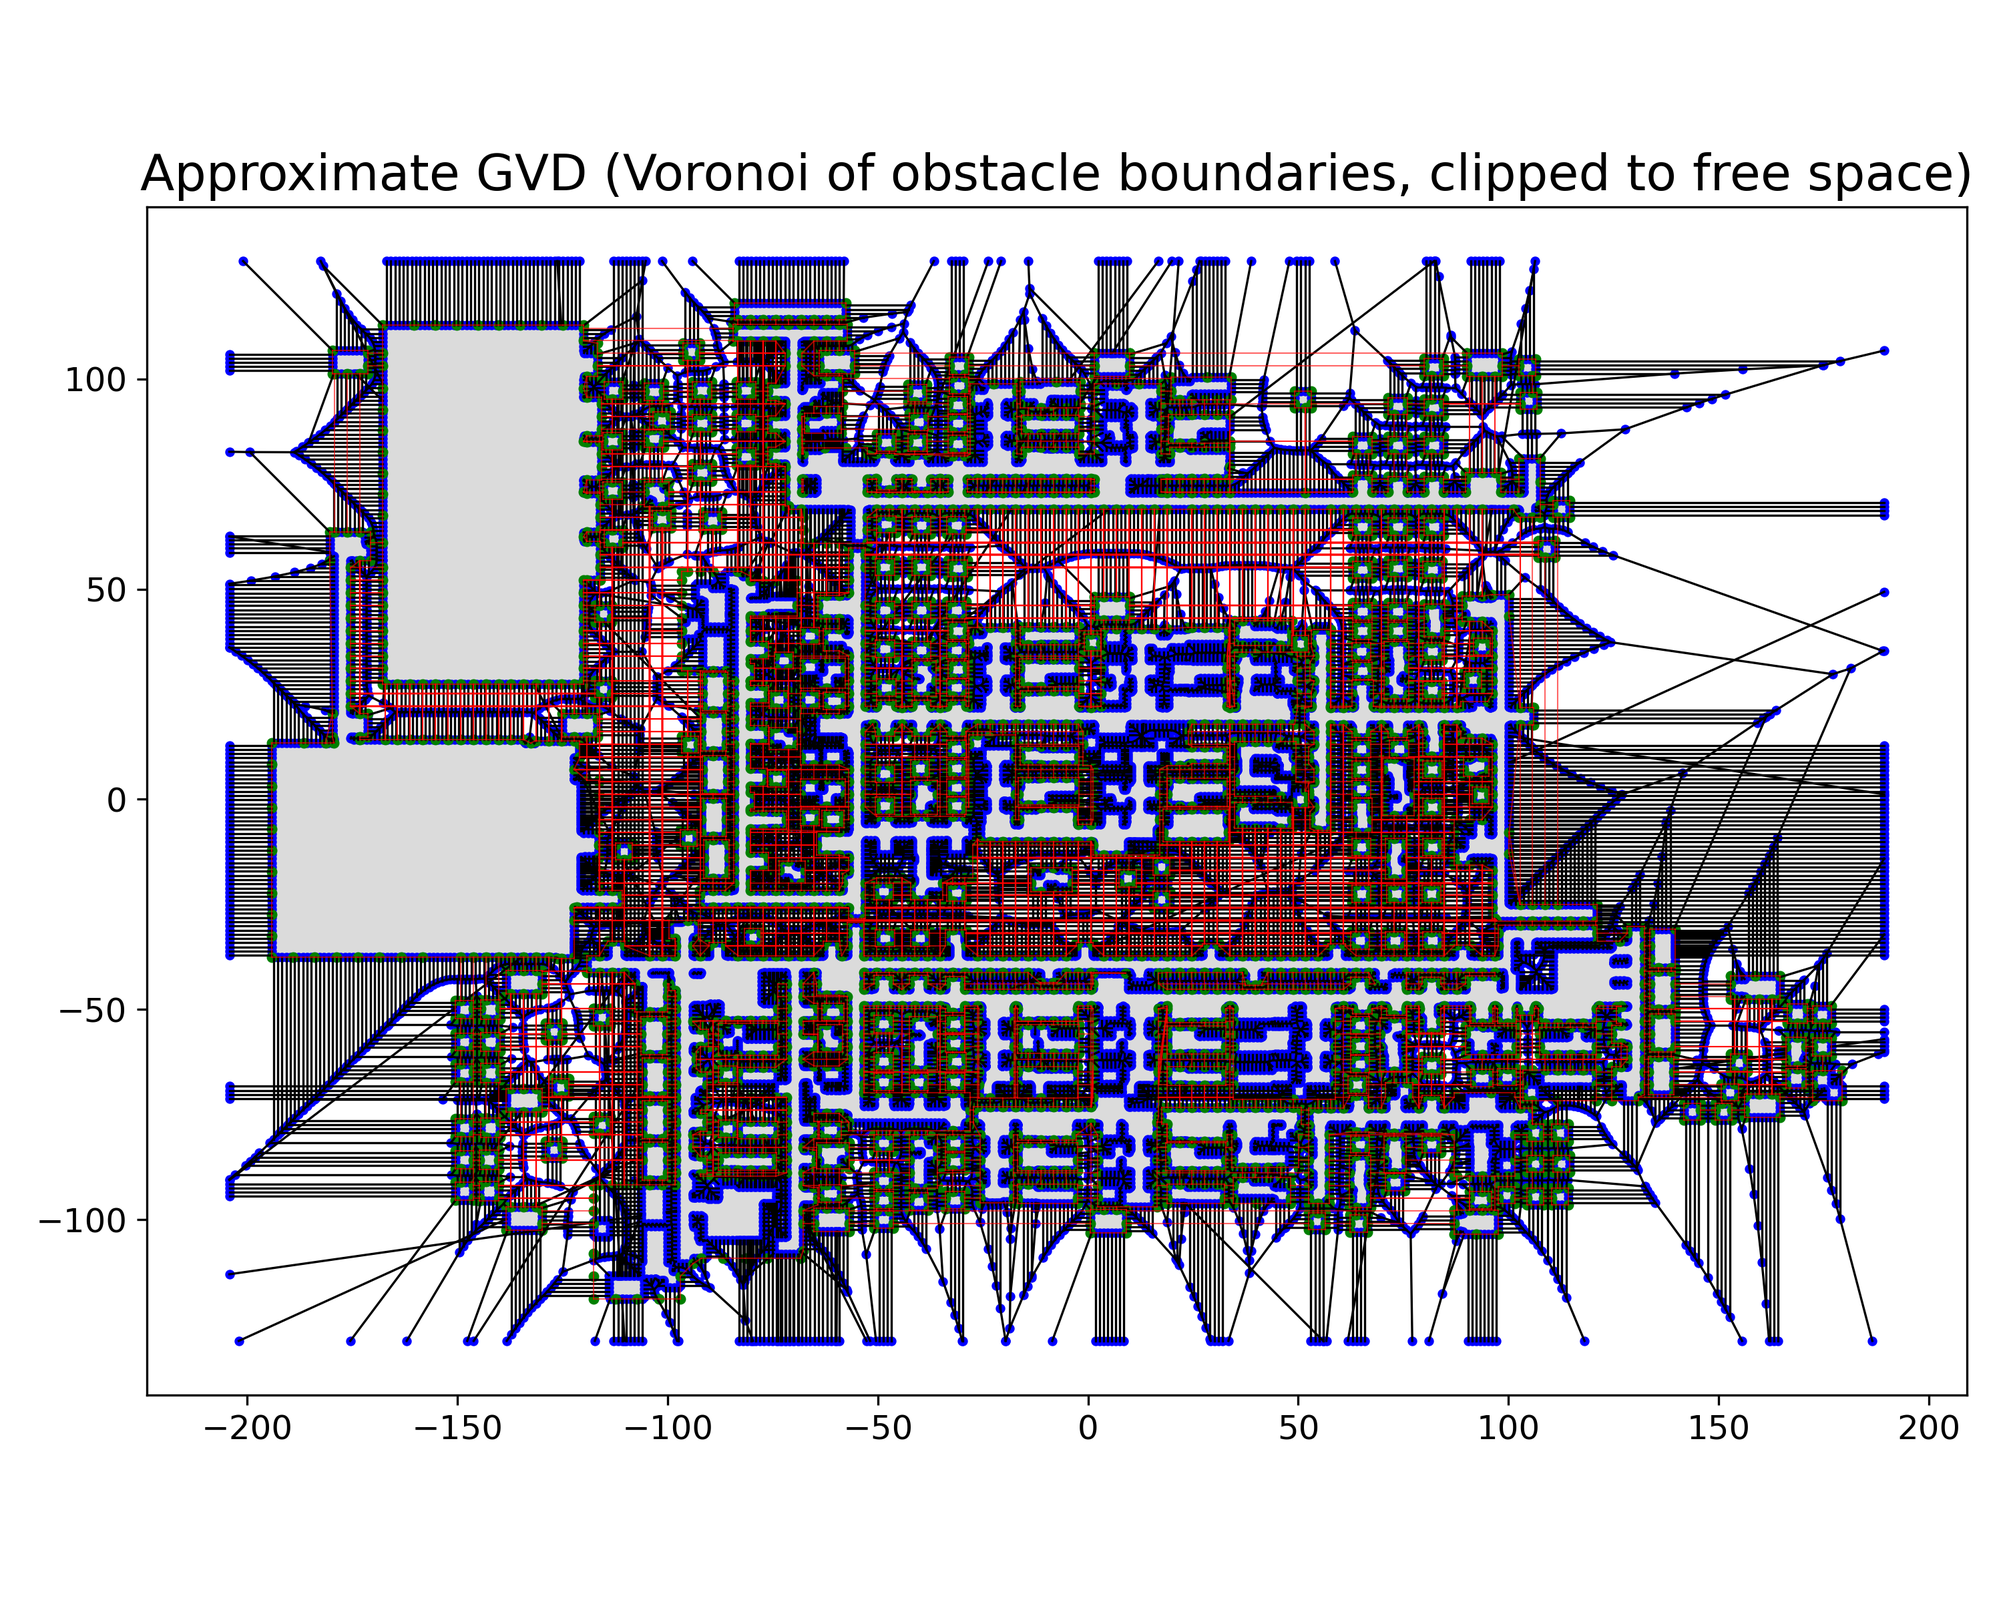
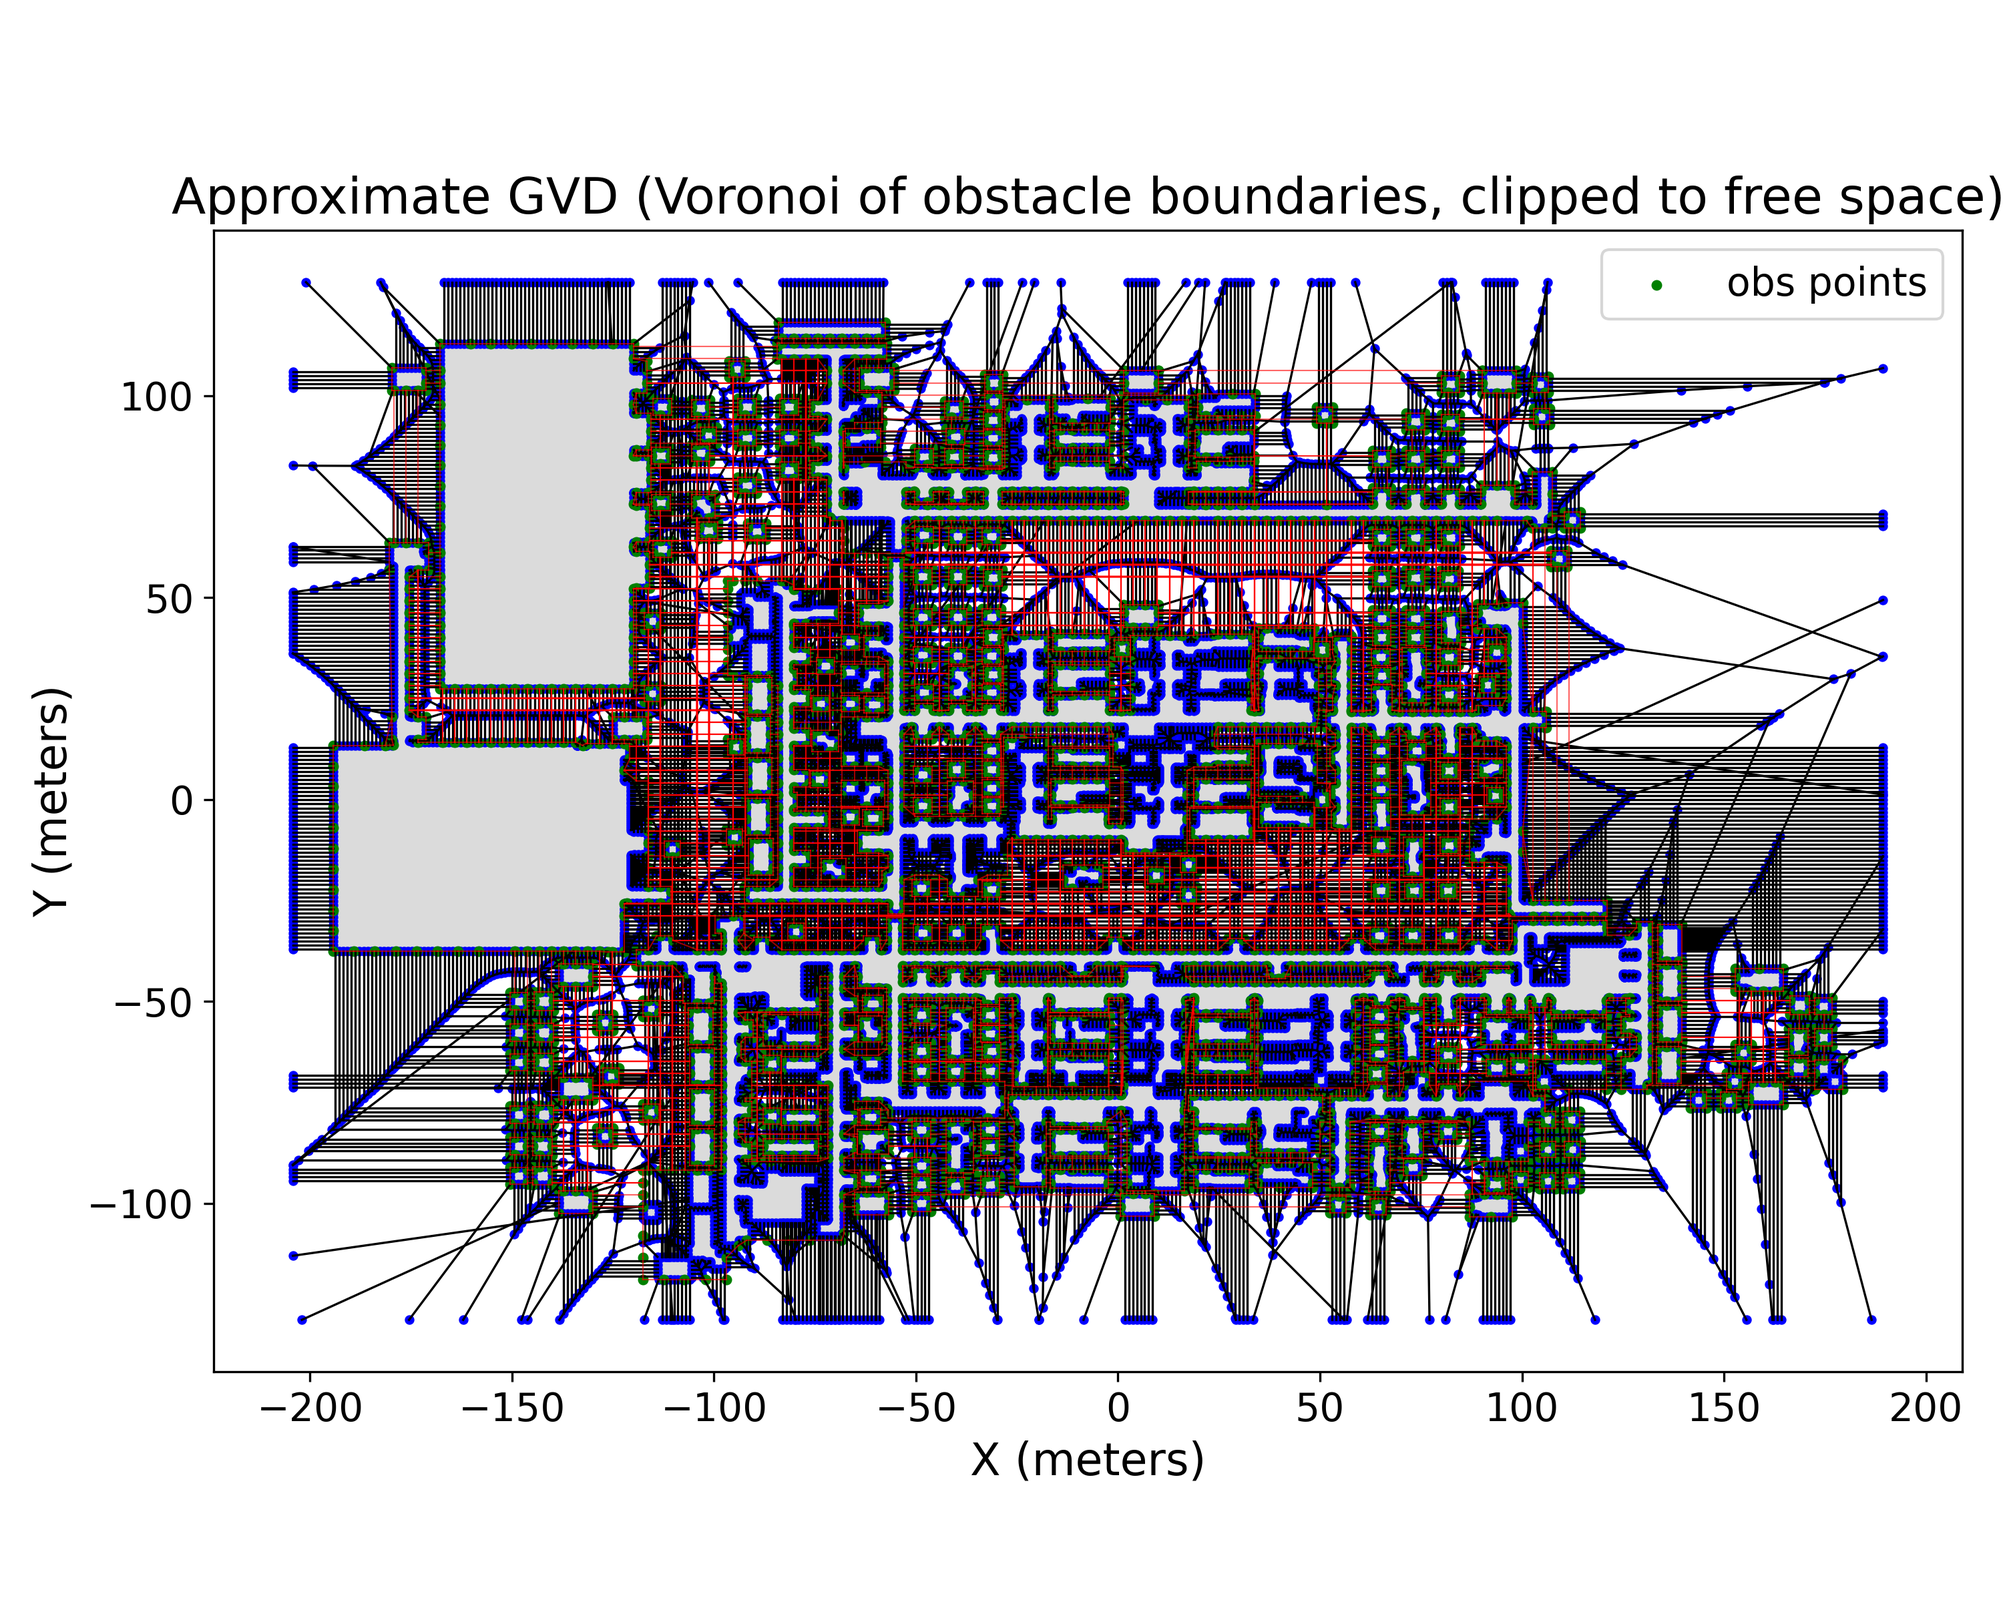
analise comparativa ajustada

diff --git a/Resultados_artigo/analise_comparativa.py b/Resultados_artigo/analise_comparativa.py
@@ -1,20 +1,18 @@
 """
-Script para análise comparativa entre o grafo AABB e o grafo GVD (Voronoi).
+Comparative analysis script between the AABB graph and the GVD (Voronoi) graph.
 
-Este script gera três grafos:
-1. Grafo AABB: O método principal, com margem de 3.5 e threshold de 20.
-2. Grafo GVD com Margem: GVD gerado sobre obstáculos com margem de 3.5.
-3. Grafo GVD sem Margem: GVD gerado sobre os obstáculos originais (margem 0).
+This script generates three graphs:
+1. AABB Graph: Main method, using margin=1.5 and threshold=50.
+2. GVD with Margin: GVD generated with obstacles expanded by margin=1.5.
+3. GVD without Margin: GVD generated from original obstacles (margin=0).
 
-Realiza as seguintes análises e gera os seguintes artefatos:
-- Tabela Comparativa de Métricas: Imprime no console uma tabela com estatísticas
-  dos grafos (vértices, arestas, comprimento, ilhas, segurança, acessibilidade).
-- Histograma de Distâncias de Segurança: Salva um PNG (`comparacao_distancias_seguranca.png`)
-  mostrando a distribuição da distância das arestas aos obstáculos para cada grafo.
-- Plot de Caminhos Mais Curtos: Salva um PNG (`comparacao_caminhos.png`) mostrando
-  o caminho mais curto entre dois pontos de exemplo nos três grafos.
+It performs the following analyses and produces the following artifacts:
+- Comparative Metrics Table: prints a table with graph statistics
+    (vertices, edges, total length, islands, density, tortuosity).
+- Shortest-path comparison plot: saves `comparacao_caminhos.png` showing
+    the shortest path between two example points on the three graphs.
 
-Uso: Executar a partir da raiz do repositório: `python Resultados_artigo/analise_comparativa.py`
+Usage: Run from repository root: `python Resultados_artigo/analise_comparativa.py`
 """
 
 import os
@@ -27,7 +25,7 @@ from shapely.ops import nearest_points, unary_union
 import pandas as pd
 import seaborn as sns
 
-# Garantir que a raiz do repositório esteja no path para importações
+    # Ensure repository root is in the import path
 REPO_ROOT = os.path.abspath(os.path.join(os.path.dirname(__file__), ".."))
 if REPO_ROOT not in sys.path:
     sys.path.insert(0, REPO_ROOT)
@@ -42,6 +40,18 @@ from Resultados_artigo.gvd_from_equipment import (
 )
 
 RESULTS_DIR = os.path.dirname(__file__)
+# Publication-quality defaults for this script's figures
+import matplotlib as mpl
+mpl.rcParams.update({
+    'figure.titlesize': 26,
+    'axes.titlesize': 24,
+    'axes.labelsize': 20,
+    'xtick.labelsize': 16,
+    'ytick.labelsize': 16,
+    'legend.fontsize': 16,
+    'legend.title_fontsize': 16,
+    'font.size': 16,
+})
 
 def find_closest_node(graph, point):
     """Encontra o nó no grafo mais próximo de uma dada coordenada (x, y)."""
@@ -114,90 +124,12 @@ def get_average_tortuosity(graph):
     return np.mean(tortuosities) if tortuosities else float('nan')
 
 def plot_radar_chart(df, output_dir):
-    """Gera um radar chart para comparar as métricas normalizadas dos grafos."""
-    print("   - Gerando Radar Chart para comparação de trade-offs...")
-    
-    # Métricas para o radar chart. Escolhemos as que melhor representam os trade-offs.
-    # Nota: Para 'Tortuosidade' e 'Fragmentação', valores menores são melhores. Inverteremos a escala.
-    metrics = ['Vértices', 'Comprimento Total (m)', 'Tortuosidade Média', 'Índice Fragmentação']
-    df_radar = df[['Grafo'] + metrics].copy()
-
-    # Normaliza os dados (escala de 0 a 1)
-    for metric in metrics:
-        min_val = df_radar[metric].min()
-        max_val = df_radar[metric].max()
-        if max_val - min_val > 0:
-            df_radar[metric] = (df_radar[metric] - min_val) / (max_val - min_val)
-        else:
-            df_radar[metric] = 0.5 # Valor neutro se todos forem iguais
-
-    # Inverte a escala para métricas onde "menos é mais"
-    for metric in ['Tortuosidade Média', 'Índice Fragmentação']:
-        df_radar[metric] = 1 - df_radar[metric]
-
-    labels = df_radar.columns[1:]
-    num_vars = len(labels)
-
-    # Ângulos para o radar chart
-    angles = np.linspace(0, 2 * np.pi, num_vars, endpoint=False).tolist()
-    angles += angles[:1]
-
-    fig, ax = plt.subplots(figsize=(8, 8), subplot_kw=dict(polar=True))
-
-    for i, row in df_radar.iterrows():
-        values = row.drop('Grafo').tolist()
-        values += values[:1]
-        ax.plot(angles, values, label=row['Grafo'], linewidth=2)
-        ax.fill(angles, values, alpha=0.25)
-
-    ax.set_yticklabels([])
-    ax.set_xticks(angles[:-1])
-    ax.set_xticklabels([l.replace(' ', '\n') for l in labels])
-    plt.title('Comparação de Trade-offs dos Métodos (Radar Chart)', size=16, y=1.1)
-    plt.legend(loc='upper right', bbox_to_anchor=(1.3, 1.1))
-    plt.savefig(os.path.join(output_dir, "comparacao_radar_chart.png"), dpi=300, bbox_inches='tight')
-    plt.close()
+    # Radar chart removed per user request — keep function as placeholder.
+    print("Radar chart generation disabled (plots removed).")
 
 def plot_metrics_comparison(df, output_dir):
-    """Gera gráficos de barras comparando as métricas dos diferentes grafos."""
-    print("   - Gerando plots de comparação de métricas...")
-    
-    # Garante que as colunas de métricas sejam numéricas para plotagem
-    for col in df.columns:
-        if col != 'Grafo':
-            df[col] = pd.to_numeric(df[col])
-
-    # Define as métricas para os plots
-    metrics_to_plot = {
-        'Complexidade': ['Vértices', 'Arestas'],
-        'Eficiência e Coesão': ['Comprimento Total (m)', 'Tortuosidade Média', 'Índice Fragmentação']
-    }
-
-    sns.set_theme(style="whitegrid")
-    palette = "viridis"
-
-    # Plot para Complexidade
-    df_melted_complexity = df.melt(id_vars='Grafo', value_vars=metrics_to_plot['Complexidade'], var_name='Métrica', value_name='Valor')
-    plt.figure(figsize=(10, 6))
-    ax1 = sns.barplot(x='Métrica', y='Valor', hue='Grafo', data=df_melted_complexity, palette=palette)
-    ax1.set_title('Comparação de Complexidade do Grafo', fontsize=16)
-    ax1.set_ylabel('Contagem')
-    ax1.set_yscale('log') # Usar escala logarítmica para lidar com grandes diferenças
-    plt.tight_layout()
-    plt.savefig(os.path.join(output_dir, "comparacao_metricas_complexidade.png"), dpi=300)
-    plt.close()
-
-    # Plot para Eficiência e Coesão
-    df_melted_efficiency = df.melt(id_vars='Grafo', value_vars=metrics_to_plot['Eficiência e Coesão'], var_name='Métrica', value_name='Valor')
-    g = sns.catplot(x='Métrica', y='Valor', hue='Grafo', data=df_melted_efficiency, kind='bar', palette=palette, height=6, aspect=1.5, sharey=False)
-    g.fig.suptitle('Comparação de Eficiência e Coesão do Grafo', y=1.03, fontsize=16)
-    g.set_axis_labels("Métrica", "Valor")
-    g.set_xticklabels(rotation=10)
-    g.despine(left=True)
-    plt.tight_layout()
-    plt.savefig(os.path.join(output_dir, "comparacao_metricas_eficiencia.png"), dpi=300)
-    plt.close()
-    print(f"   - Plots de métricas salvos em: {output_dir}")
+    # Barplots generation removed per user request — keep function as placeholder.
+    print("Barplot generation disabled (plots removed).")
 
 def main():
     # --- Configuração ---
@@ -205,14 +137,14 @@ def main():
     sheet_name = 'Parnaiba3_Transformado'
     
     # Parâmetros para os cenários
-    AABB_MARGIN = 3.5
-    AABB_THRESHOLD = 20
-    GVD_MARGIN = 3.5
+    AABB_MARGIN = 1.5
+    AABB_THRESHOLD = 50
+    GVD_MARGIN = 1.5
 
-    print("Iniciando análise comparativa entre grafos AABB e GVD...")
+    print("Starting comparative analysis between AABB and GVD graphs...")
 
     # --- Carregamento de Dados ---
-    print("1. Carregando obstáculos...")
+    print("1. Loading obstacles...")
     loader = ObstacleLoader(file_path, sheet_name)
     obstacles = loader.get_obstacles()
     # Polígonos de obstáculos originais (sem margem) para cálculo de folga
@@ -220,7 +152,7 @@ def main():
     obstacle_union_no_margin = unary_union(obstacle_polys_no_margin)
 
     # --- Geração dos Grafos ---
-    print("2. Gerando os três grafos para comparação...")
+    print("2. Generating the three graphs for comparison...")
     # Cenário 1: Grafo AABB
     G_aabb, _, obs_pts_list, _ = build_graph(file_path, sheet_name, margin=AABB_MARGIN, threshold=AABB_THRESHOLD)
     
@@ -240,7 +172,7 @@ def main():
     }
 
     # --- Análise Quantitativa ---
-    print("\n3. Calculando métricas e gerando tabela comparativa...")
+    print("\n3. Calculating metrics and generating comparative table...")
     results = []
     obs_points_coords = [p[:2] for p in obs_pts_list]
 
@@ -259,30 +191,30 @@ def main():
         avg_tortuosity = get_average_tortuosity(G)
 
         results.append({
-            "Grafo": name,
-            "Vértices": num_nodes,
-            "Arestas": num_edges,
-            "Comprimento Total (m)": f"{total_length:.1f}",
-            "Densidade": f"{density:.4f}",
-            "Tortuosidade Média": f"{avg_tortuosity:.3f}",
-            "Índice Fragmentação": f"{fragmentation_index:.3f}",
-            "Nº de Ilhas": num_islands,
+            "Graph": name,
+            "Vertices": num_nodes,
+            "Edges": num_edges,
+            "Total Length (m)": f"{total_length:.1f}",
+            "Density": f"{density:.4f}",
+            "Average Tortuosity": f"{avg_tortuosity:.3f}",
+            "Fragmentation Index": f"{fragmentation_index:.3f}",
+            "Number of Islands": num_islands,
         })
 
     df = pd.DataFrame(results)
-    print("\n--- Tabela de Resultados ---")
+    print("\n--- Results Table ---")
     print(df.to_string(index=False))
 
-    # Salva a tabela em um arquivo CSV
+    # Save the table to a CSV file
     csv_path = os.path.join(RESULTS_DIR, "comparacao_resultados.csv")
     df.to_csv(csv_path, index=False, float_format='%.4f')
-    print(f"\nTabela de resultados salva em: {csv_path}")
+    print(f"\nResults table saved to: {csv_path}")
 
     # Copia o DataFrame para não alterar o original que será usado no plot de caminhos
     df_plot = df.copy()
 
     # --- Análise Visual (Plots) ---
-    print("\n4. Gerando plots comparativos...")
+    print("\n4. Generating comparative visualizations...")
 
     # Plot 1: Comparação de Caminhos Mais Curtos
     fig, ax = plt.subplots(figsize=(14, 10))
@@ -292,7 +224,7 @@ def main():
     ax.set_xlim(xmin, xmax)
     ax.set_ylim(ymin, ymax)
     for poly in obstacle_polys_no_margin:
-        ax.fill(*poly.exterior.xy, color='lightgray', ec='black')
+        ax.fill(*poly.exterior.xy, color='lightgray', ec='black', linewidth=1.5)
 
     # Encontra pontos de início e fim (usando o grafo AABB como referência)
     start_node, end_node = find_farthest_nodes(G_aabb)
@@ -300,10 +232,9 @@ def main():
     if start_node and end_node:
         start_pos = G_aabb.nodes[start_node]['pos']
         end_pos = G_aabb.nodes[end_node]['pos']
-        ax.plot(start_pos[0], start_pos[1], 'go', markersize=10, label='Início')
-        ax.plot(end_pos[0], end_pos[1], 'ro', markersize=10, label='Fim')
+        ax.plot(start_pos[0], start_pos[1], 'go', markersize=16, markeredgewidth=1.5, label='Start')
+        ax.plot(end_pos[0], end_pos[1], 'ro', markersize=16, markeredgewidth=1.5, label='End')
 
-        colors = {'AABB': 'blue', 'GVD (margin=3.5)': 'orange', 'GVD (margin=0)': 'purple'}
         colors = {
             f"AABB (margin={AABB_MARGIN})": ('blue', '-'),
             f"GVD (margin={GVD_MARGIN})": ('darkorange', '--'),
@@ -312,13 +243,13 @@ def main():
 
         for name, G in graphs.items():
             color, style = colors.get(name, ('black', '-'))
-            
-            # Encontra os nós mais próximos das posições de início/fim para este grafo específico
+
+            # Find the closest nodes to the start/end positions for this specific graph
             current_start_node = find_closest_node(G, start_pos)
             current_end_node = find_closest_node(G, end_pos)
 
             if not current_start_node or not current_end_node:
-                print(f"   - Aviso: Não foi possível encontrar nós de início/fim para o grafo '{name}'.")
+                print(f"   - Warning: Could not find start/end nodes for graph '{name}'.")
                 continue
 
             try:
@@ -329,26 +260,25 @@ def main():
                 for u, v in path_edges:
                     p1 = G.nodes[u]['pos']
                     p2 = G.nodes[v]['pos']
-                    ax.plot([p1[0], p2[0]], [p1[1], p2[1]], color=color, linestyle=style, linewidth=2.5, label=label_text if (u,v) == path_edges[0] else "")
+                    ax.plot([p1[0], p2[0]], [p1[1], p2[1]], color=color, linestyle=style, linewidth=3.5, label=label_text if (u,v) == path_edges[0] else "")
             except (nx.NetworkXNoPath, nx.NodeNotFound):
-                print(f"   - Aviso: Não foi possível encontrar caminho entre os pontos para o grafo '{name}'.")
+                print(f"   - Warning: No path found between start and end for graph '{name}'.")
 
-    ax.set_title("Comparação de Caminho Mais Curto entre Grafos")
+    ax.set_title("Shortest-path Comparison Between Graphs", fontsize=26)
     ax.set_aspect('equal', adjustable='box')
-    ax.legend()
+    ax.legend(fontsize=16)
     plt.grid(True, linestyle='--', alpha=0.6)
+    ax.set_xlabel('X (meters)', fontsize=20)
+    ax.set_ylabel('Y (meters)', fontsize=20)
+    ax.tick_params(axis='both', which='major', labelsize=16)
     out_path_paths = os.path.join(RESULTS_DIR, "comparacao_caminhos.png")
     plt.savefig(out_path_paths, dpi=300)
-    print(f"   - Plot de caminhos salvo em: {out_path_paths}")
+    print(f"   - Path comparison plot saved to: {out_path_paths}")
     plt.close()
 
-    # Plot 2: Gráficos de Barras das Métricas
-    plot_metrics_comparison(df_plot, RESULTS_DIR)
+    # Barplots and radar chart generation were disabled per request.
 
-    # Plot 3: Radar Chart
-    plot_radar_chart(df_plot, RESULTS_DIR)
-
-    print("\nAnálise concluída com sucesso!")
+    print("\nAnalysis completed successfully!")
 
 if __name__ == "__main__":
     main()

diff --git a/Resultados_artigo/gvd_from_equipment.py b/Resultados_artigo/gvd_from_equipment.py
@@ -249,6 +249,14 @@ def plot_gvd_graph(G, free_space, obstacles_union, out_png, show=False, overlay_
 
     ax.set_aspect('equal', adjustable='box')
     ax.set_title('Approximate GVD (Voronoi of obstacle boundaries, clipped to free space)')
+    ax.set_xlabel('X (meters)', fontsize=16)
+    ax.set_ylabel('Y (meters)', fontsize=16)
+    ax.tick_params(axis='both', which='major', labelsize=14)
+    # Legend (if obs points are plotted)
+    try:
+        ax.legend(fontsize=14)
+    except Exception:
+        pass
     plt.tight_layout()
     plt.savefig(out_png, dpi=300)
     try:
